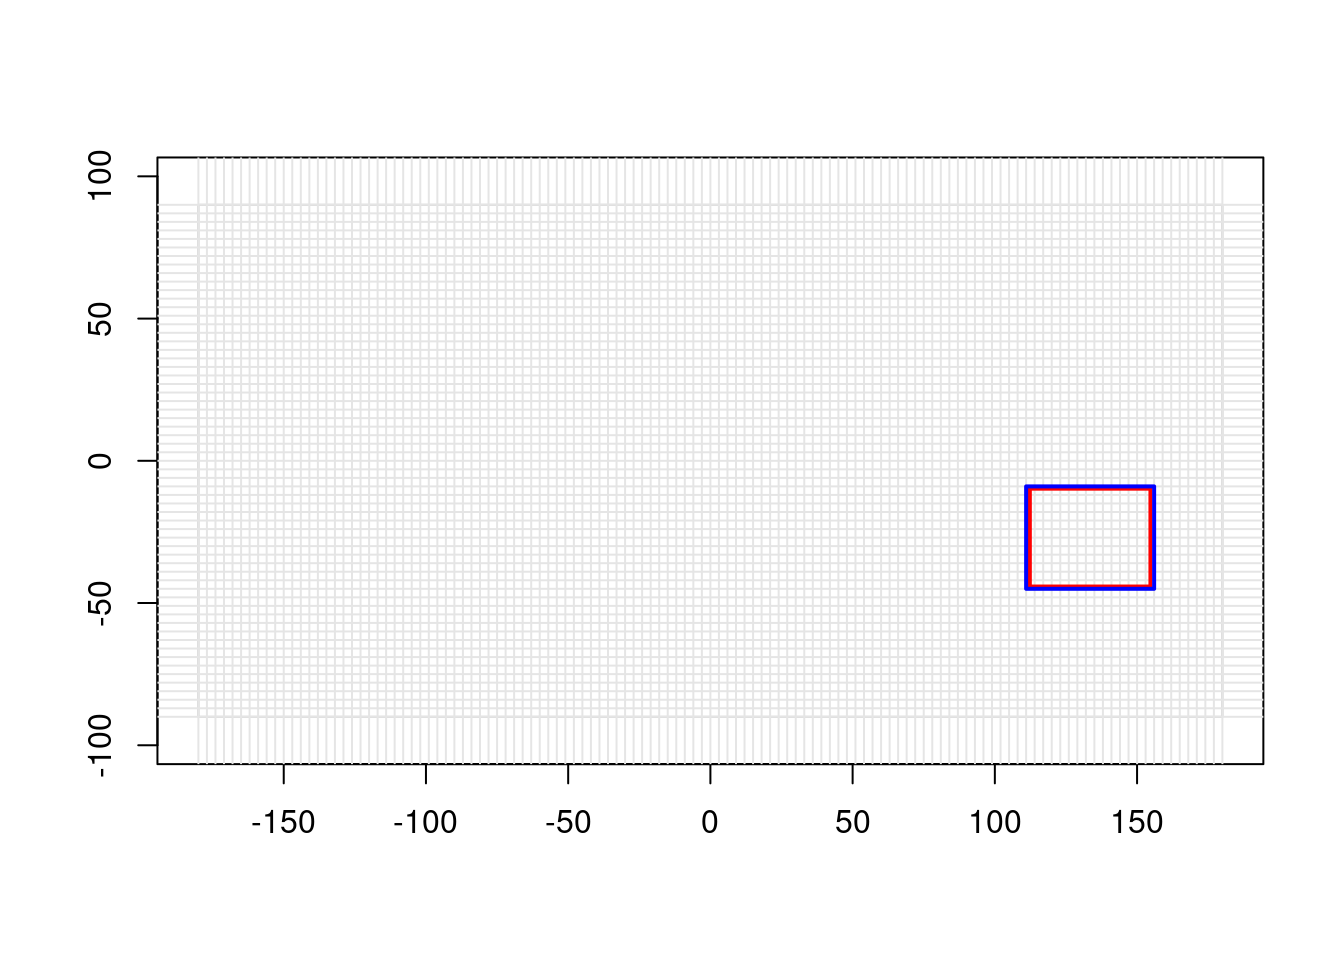
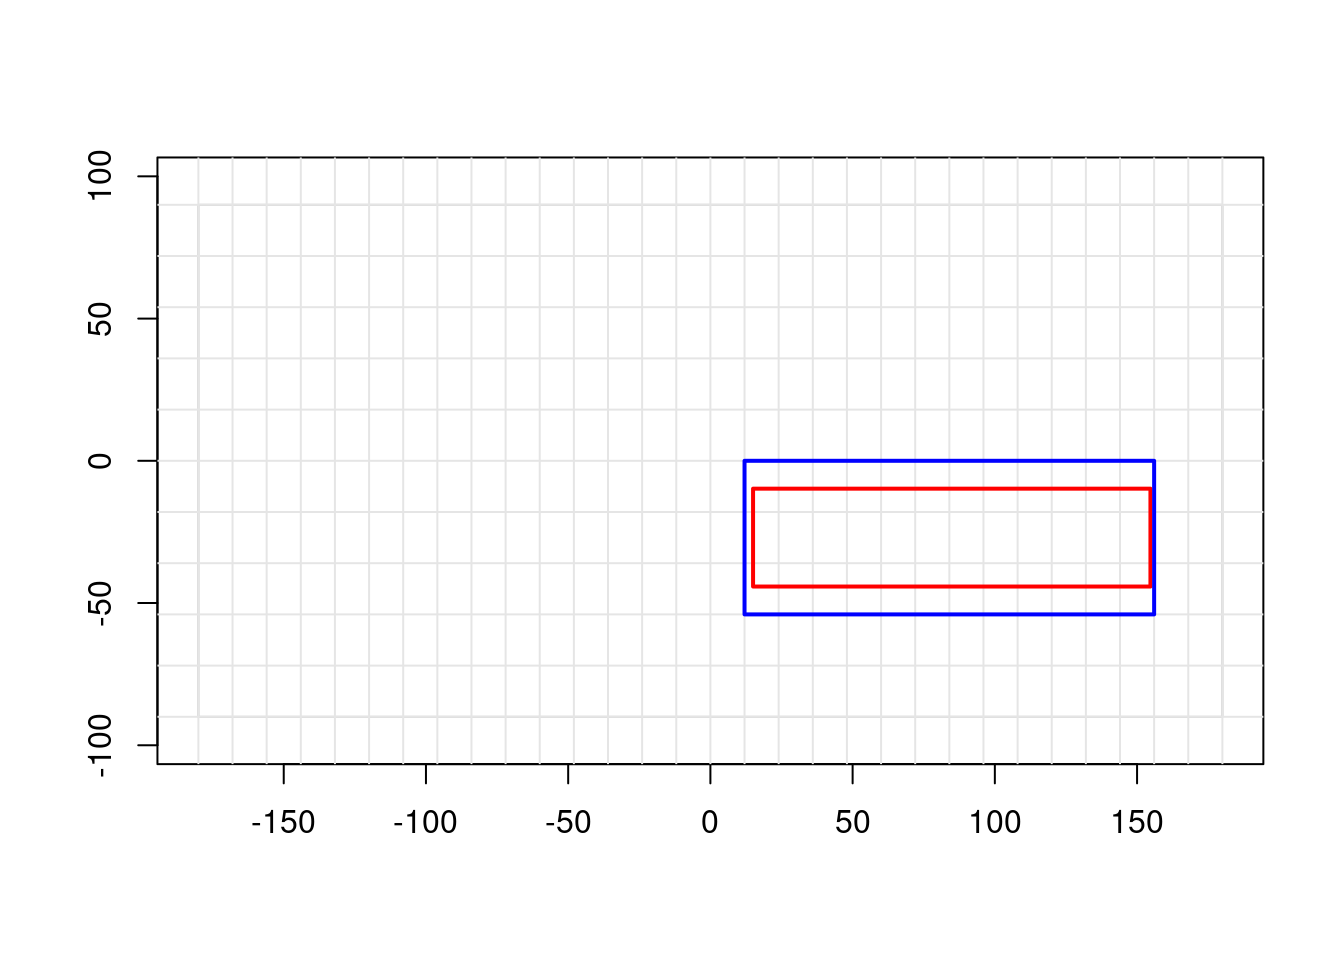
fix the aligment plot

Changed region(s): [[0.125, 0.1875, 0.9375, 0.7812]]

diff --git a/_site/posts/2025-12-21_vaster-grid-logic/vaster-grid-logic.html b/_site/posts/2025-12-21_vaster-grid-logic/vaster-grid-logic.html
@@ -335,21 +335,21 @@ pre > code.sourceCode > span > a:first-child::before { text-decoration: underlin
 <p>One of the most common operations in raster work is “snapping”—taking an arbitrary region and aligning it to an existing grid. You want to crop to an area of interest, but you need cell-aligned boundaries.</p>
 <div class="cell">
 <div class="sourceCode cell-code" id="cb18"><pre class="sourceCode r code-with-copy"><code class="sourceCode r"><span id="cb18-1"><a href="#cb18-1" aria-hidden="true" tabindex="-1"></a><span class="co"># A reference grid: 3-degree cells covering the globe</span></span>
-<span id="cb18-2"><a href="#cb18-2" aria-hidden="true" tabindex="-1"></a>ref_dm <span class="ot">&lt;-</span> <span class="fu">c</span>(<span class="dv">120</span>, <span class="dv">60</span>)</span>
+<span id="cb18-2"><a href="#cb18-2" aria-hidden="true" tabindex="-1"></a>ref_dm <span class="ot">&lt;-</span> <span class="fu">c</span>(<span class="dv">30</span>, <span class="dv">10</span>)</span>
 <span id="cb18-3"><a href="#cb18-3" aria-hidden="true" tabindex="-1"></a>ref_ex <span class="ot">&lt;-</span> <span class="fu">c</span>(<span class="sc">-</span><span class="dv">180</span>, <span class="dv">180</span>, <span class="sc">-</span><span class="dv">90</span>, <span class="dv">90</span>)</span>
 <span id="cb18-4"><a href="#cb18-4" aria-hidden="true" tabindex="-1"></a></span>
 <span id="cb18-5"><a href="#cb18-5" aria-hidden="true" tabindex="-1"></a><span class="co"># Some arbitrary region of interest (not aligned to anything)</span></span>
-<span id="cb18-6"><a href="#cb18-6" aria-hidden="true" tabindex="-1"></a>roi <span class="ot">&lt;-</span> <span class="fu">c</span>(<span class="fl">112.3</span>, <span class="fl">154.7</span>, <span class="sc">-</span><span class="fl">44.2</span>, <span class="sc">-</span><span class="fl">9.8</span>)</span>
+<span id="cb18-6"><a href="#cb18-6" aria-hidden="true" tabindex="-1"></a>roi <span class="ot">&lt;-</span> <span class="fu">c</span>(<span class="dv">15</span>, <span class="fl">154.7</span>, <span class="sc">-</span><span class="fl">44.2</span>, <span class="sc">-</span><span class="fl">9.8</span>)</span>
 <span id="cb18-7"><a href="#cb18-7" aria-hidden="true" tabindex="-1"></a></span>
 <span id="cb18-8"><a href="#cb18-8" aria-hidden="true" tabindex="-1"></a><span class="co"># Snap to the reference grid</span></span>
 <span id="cb18-9"><a href="#cb18-9" aria-hidden="true" tabindex="-1"></a>snapped <span class="ot">&lt;-</span> <span class="fu">vcrop</span>(roi, ref_dm, <span class="at">extent =</span> ref_ex)</span>
 <span id="cb18-10"><a href="#cb18-10" aria-hidden="true" tabindex="-1"></a>snapped</span></code><button title="Copy to Clipboard" class="code-copy-button"><i class="bi"></i></button></pre></div>
 <div class="cell-output cell-output-stdout">
 <pre><code>$extent
-[1] 111 156 -45  -9
+[1]  12 156 -54   0
 
 $dimension
-[1] 15 12</code></pre>
+[1] 12  3</code></pre>
 </div>
 </div>
 <p>The result gives you the exact dimension and extent for the crop window, aligned to the reference grid. No data needed—just the numbers.</p>

diff --git a/_site/index.html b/_site/index.html
@@ -210,7 +210,7 @@ window.Quarto = {
 
 <div class="quarto-listing quarto-listing-container-default" id="listing-listing">
 <div class="list quarto-listing-default">
-<div class="quarto-post image-right" data-index="0" data-categories="Y29kZSUyQ25ld3M=" data-listing-date-sort="1766275200000" data-listing-file-modified-sort="1766305940610" data-listing-date-modified-sort="NaN" data-listing-reading-time-sort="14" data-listing-word-count-sort="2758">
+<div class="quarto-post image-right" data-index="0" data-categories="Y29kZSUyQ25ld3M=" data-listing-date-sort="1766275200000" data-listing-file-modified-sort="1766306506690" data-listing-date-modified-sort="NaN" data-listing-reading-time-sort="14" data-listing-word-count-sort="2758">
 <div class="thumbnail">
 <p><a href="./posts/2025-12-21_vaster-grid-logic/vaster-grid-logic.html" class="no-external"></a></p><a href="./posts/2025-12-21_vaster-grid-logic/vaster-grid-logic.html" class="no-external">
 <p class="card-img-top"><img src="posts/2025-12-21_vaster-grid-logic/vaster-grid-logic_files/figure-html/image-model-1.png"  class="thumbnail-image card-img"/></p>
